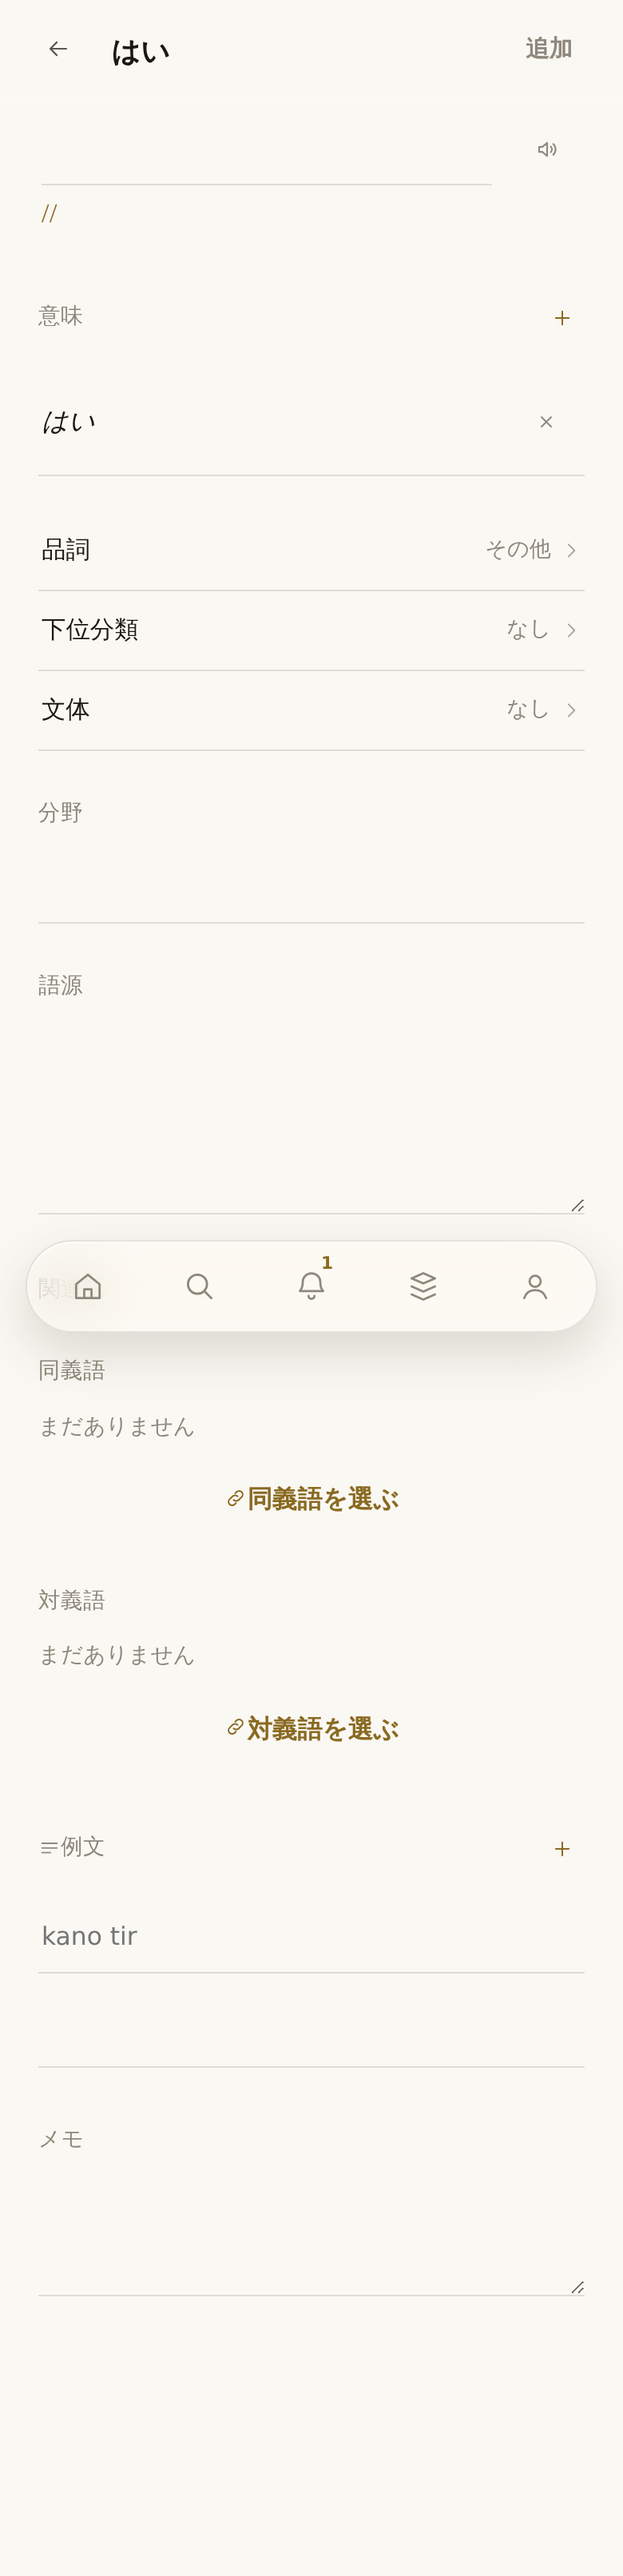
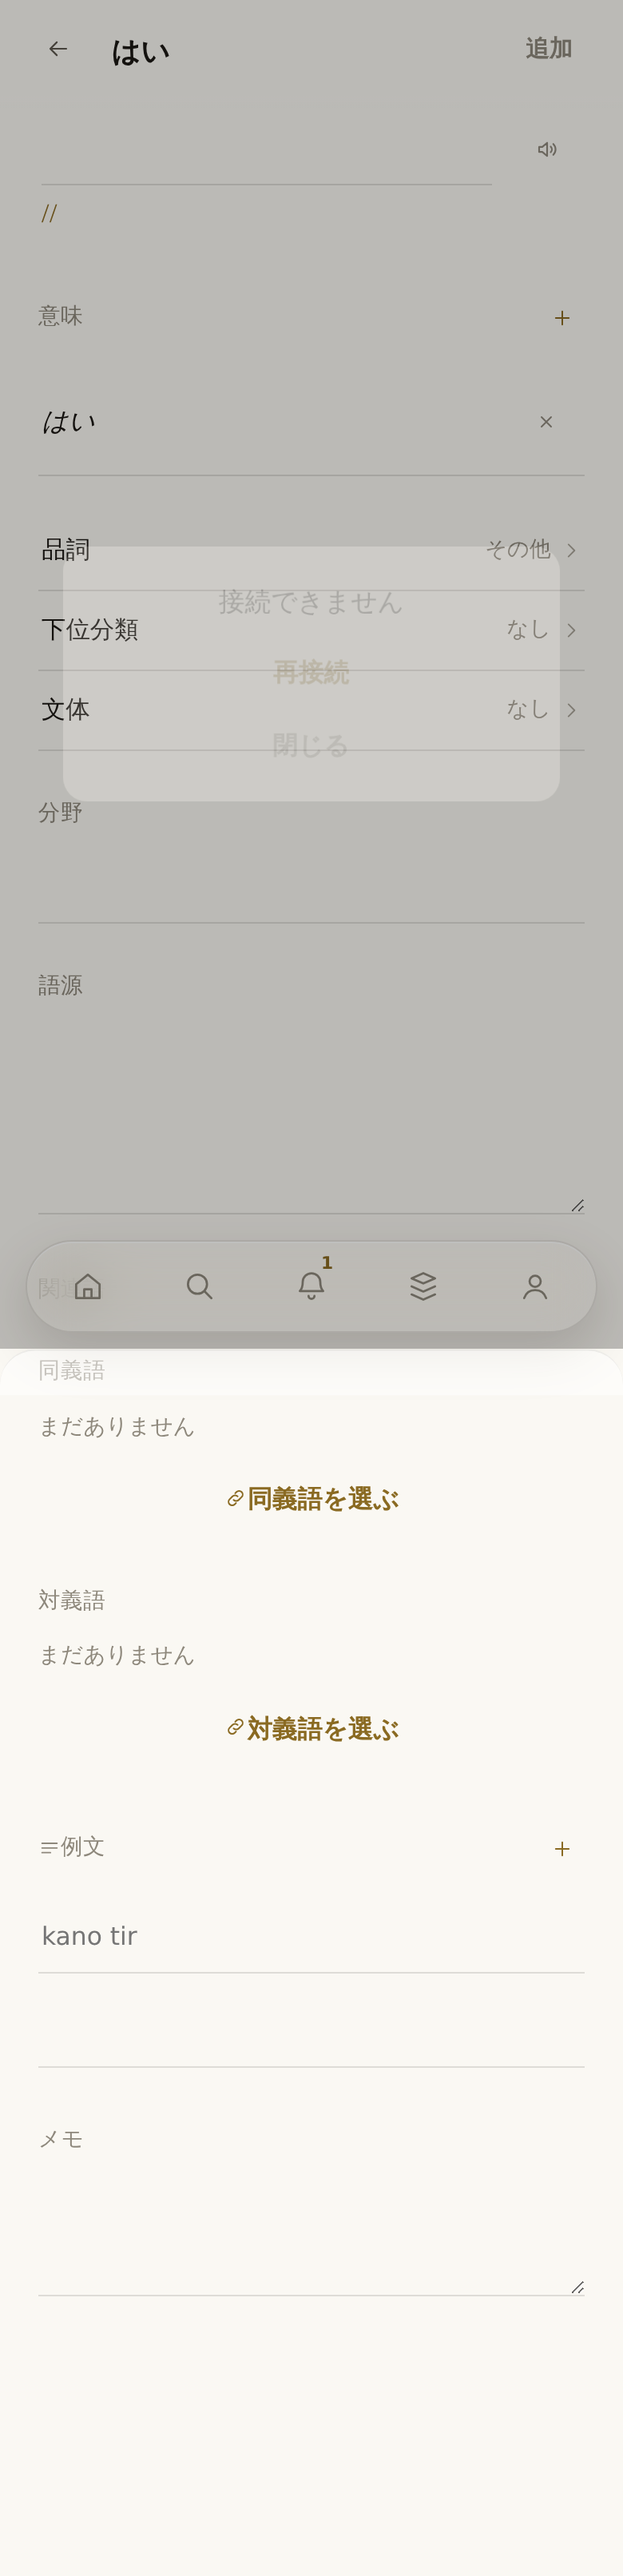
段の枠の紙の「追加」も、render で灰に戻らなくなった
2026-09-11「新しい語の紙の『追加』が、綴りを打っても灰のままだった」の
残り一箇所。別の枝が phases.js に居たので合図待ちにしていた分です。

段の枠（`openSlot`）は語を作るのと同じ紙を開くのに、mount を自分で書いて
いた。打鍵の側は共通の `wdKeepTouch()` で効いていたが、form の右上は開いた
時に取った文字列なので（FORM.right）、render のたびに灰へ戻っていた。
`wdMount` に替えて、三つの入口（openAdd / openEdit / openSlot）が一つに
なった。書かれるものは変わらない。

検査 ── 「追加」の claim に段の枠の紙を足した。同じ紙なのに mount を別々に
持っていたので、三つの入口のうち一つだけが古くなっても全部緑になり得た。
赤を見た：mount を元に戻す → `a render put 追加 back to grey over a grammar
slot's sheet holding a word`。

npm run keep 緑（残る一件 `the profile: a save that did not land moved
something on the phone` は origin/integ-0905 単体でも赤で、この枝のもの
ではない）。act 緑、i18n 緑、dead 緑、es5 緑。

スクショ：`shots/half-a-slot-s-word-being-made{,-with-a-spelling-typed}-ja.png`

CODE CONFIRMED。DEVICE 未確認。OWNER 未確認。

Claude-Session: https://claude.ai/code/session_012LYUYGEJjkvM2Q4w7AwH1q

diff --git a/www/phases.js b/www/phases.js
@@ -585,7 +585,7 @@ function openSlot(pid, k){
   if(capStop(1)) return;
   openForm(route, stSlotLabel(p, key),
     '<div id="wd-body">'+wdFormHTML()+'</div>',
-    function(){ phkMount(); geTiles(); }, wdSaveBtn());
+    wdMount, wdSaveBtn());
 }
 FORM_OPEN.slot=function(a){ var i=String(a).indexOf('/'); openSlot(a.slice(0,i), a.slice(i+1)); };
 /* ---- a stage of your own ---------------------------------------------- */

diff --git a/docs/CHANGELOG.md b/docs/CHANGELOG.md
@@ -15,6 +15,13 @@ where it starts.
 
 ## Unreleased — code confirmed, **not yet confirmed on a device**
 
+### 2026-09-11 段の枠の紙の「追加」も、render で灰に戻らなくなった
+
+2026-09-11「新しい語の紙の『追加』が、綴りを打っても灰のままだった」の残り
+一箇所です。段の枠（`openSlot`、`www/phases.js`）は同じ紙を開きますが、mount を
+自分で書いていたので、打鍵では金になっても render で灰へ戻っていました。
+`wdMount` に替えて三つの入口が一つになっています。書かれるものは変わりません。
+
 ### 2026-09-11 人の文字をもらう頁に保存ボタン ── 字を押しても、まだ文字には書かれない
 
 OWNER 2026-09-11「保存ボタンないところは直して」。OWNER 2026-09-03「打ったら
